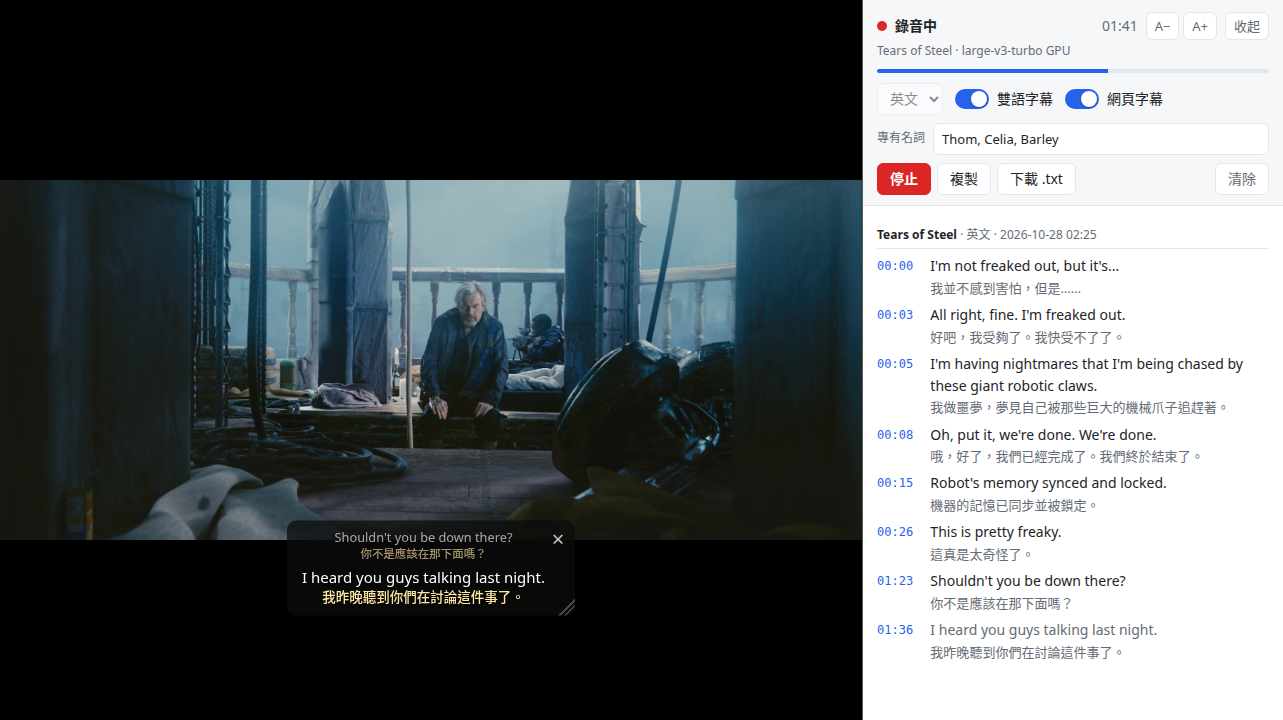
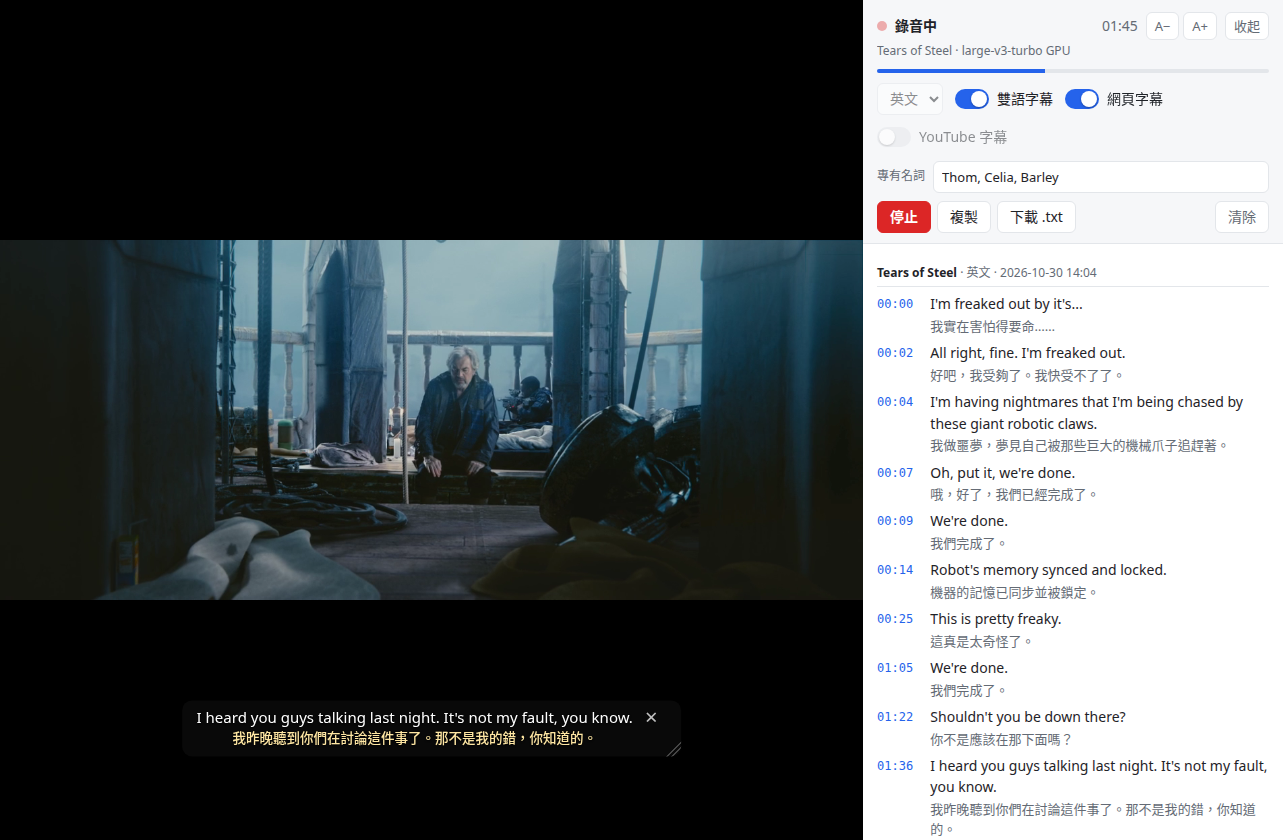
README：重截使用畫面（有 YouTube 字幕開關、網頁字幕不再壓到 ×），截圖腳本 tools/demo_screenshot.mjs
Tears of Steel 第 34 秒起實際錄音、雙語字幕（RTX 2060，large-v3-turbo），網頁和側邊欄的截圖左右拼起來；
側邊欄多了一行開關，畫面改成 1283×840 才放得下錄音標題到最後一句。

diff --git a/README.md b/README.md
@@ -4,9 +4,9 @@ English | [繁體中文](README.zh-TW.md)
 
 A Brave/Chrome extension that turns English, Japanese or Thai audio playing in a browser tab (practice sites, YouTube, Twitch, podcast pages…) into a timestamped transcript with live captions, and can add Traditional Chinese translations underneath:
 
-![Live recording: the playing video on the left with on-page captions floating below it (previous and current sentence, each with a Chinese translation); the side panel on the right with the bilingual transcript and the proper-noun field](docs/images/demo.png)
+![Live recording: the playing video on the left with on-page captions floating below it (the current sentence with its Chinese translation); the side panel on the right with the bilingual transcript, the proper-noun field and the switches](docs/images/demo.png)
 
-<sub>Real screenshot (RTX 2060, large-v3-turbo, bilingual captions on). Video shown: *Tears of Steel* © Blender Foundation | [mango.blender.org](https://mango.blender.org), [CC BY 3.0](https://creativecommons.org/licenses/by/3.0/).</sub>
+<sub>Real screenshot (RTX 2060, large-v3-turbo, bilingual captions on; taken with `tools/demo_screenshot.mjs`). Video shown: *Tears of Steel* © Blender Foundation | [mango.blender.org](https://mango.blender.org), [CC BY 3.0](https://creativecommons.org/licenses/by/3.0/).</sub>
 
 ```
 [00:00] They must go by the mail, she thought, and how funny it'll seem to send shoes to one's own feet, how odd the address will look.
@@ -26,7 +26,8 @@ The extension's interface is in Traditional Chinese; this README gives the Chine
 
 - Windows 10/11 x64, an Apple Silicon Mac (M1 or later) with macOS 14+, or Linux x86-64.
   - The author uses it on Ubuntu (RTX 2060 6 GB).
-  - The Windows and macOS versions have so far only been tested on GitHub's test machines (install, transcription and translation on the CPU, no discrete GPU), not yet on users' computers.
+  - Windows: GitHub's test machines install it as a standard (non-administrator) user and test transcription and translation (on the CPU, no discrete GPU). Not yet tested on users' computers.
+  - macOS has only been tested on GitHub's test machines (install, transcription and translation), not yet on users' computers.
 - Brave, Chrome, Chromium or Edge (tested on Brave 155).
 - An NVIDIA GPU (Windows, Linux) makes it much faster and enables the large-v3-turbo model; without one the small model runs on the CPU, slower and with more mistakes. On a Mac, Whisper runs on the CPU and the translation model uses the Mac's GPU.
 
@@ -208,9 +209,11 @@ tests/test_caption_queue.py  Translation queue for YouTube captions mode (no tra
 tests/test_chunking.mjs  Unit test for where the recorder splits audio, including with constant background sound (no browser or model needed)
 tests/test_native_host.py  Starts the local program from its registration like a browser would and exchanges messages (Linux and Windows; GitHub Actions runs it on Windows)
 tests/e2e_youtube_cc.mjs  YouTube captions mode on a mock YouTube watch page: CC turned on automatically, whole video in the transcript, follows video time, no duplicates, no recording
+tests/windows_as_user.ps1  For GitHub Actions: creates a standard local account and runs Setup.exe and the tests as it (the test machine itself is an administrator)
+tools/demo_screenshot.mjs  The screenshot at the top of this README: records and translates a real video clip, then puts the page and side panel side by side
 install.sh     Install for Linux and macOS; install.ps1 is the Windows one (install.cmd runs it on double-click)
 installer/TabTranscriber.iss  Windows installer (Inno Setup): copies files, then runs install.ps1; built by GitHub Actions and attached to the Release on v* tags
-.github/workflows/install.yml  Linux unit tests plus macOS and Windows install tests (Windows builds Setup.exe and installs it silently)
+.github/workflows/install.yml  Linux unit tests plus macOS and Windows install tests (Windows builds Setup.exe and installs it silently as a standard user)
 docs/research/ Research notes and measurements (in Chinese)
 ```
 
